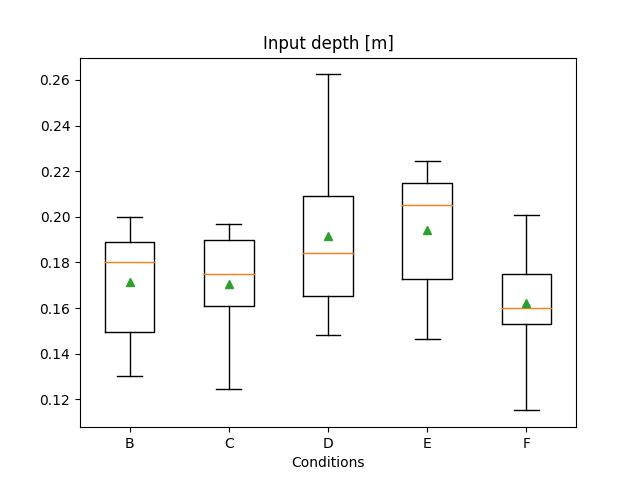
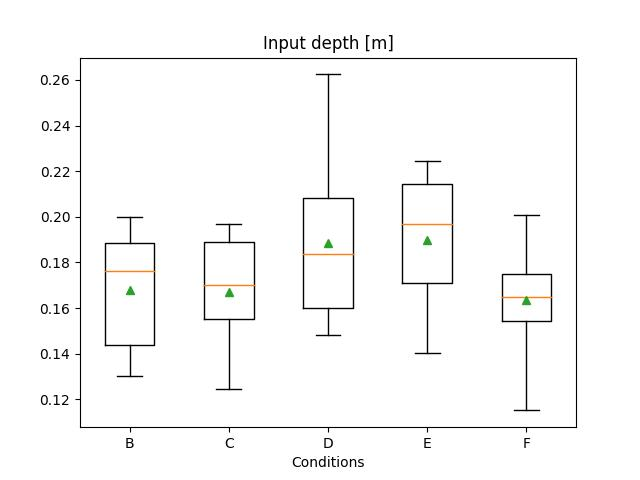
ran with participant 12

diff --git a/read.py b/read.py
@@ -29,7 +29,7 @@ hmd_header      = [ "f", "dt", "t", "posX", "posY", "posZ", "rotX", "rotY", "rot
 gripper_header  = [ "f", "dt", "t", "posX", "posY", "posZ", "rotX", "rotY", "rotZ", "rotW", "grip_pos", "grip_vel", "grip_eff" ]
 robot_header    = [ "f", "dt", "t", "t1", "t2", "t3", "t4", "t5", "t6", "t7", "fx", "fy", "fz" ]
 
-Participants    = [1, 2, 3, 4, 5, 6, 7, 8, 9, 10, 11]                            # number of participants
+Participants    = [1, 2, 3, 4, 5, 6, 7, 8, 9, 10, 11, 12]                            # number of participants
 Conditions      = ['A', 'B', 'C', 'D', 'E', 'F']
 Trials          = [1, 2, 3]
 Files           = ['Experiment', 'Gaze', 'Hand', 'HMD', 'Gripper', 'Robot']
